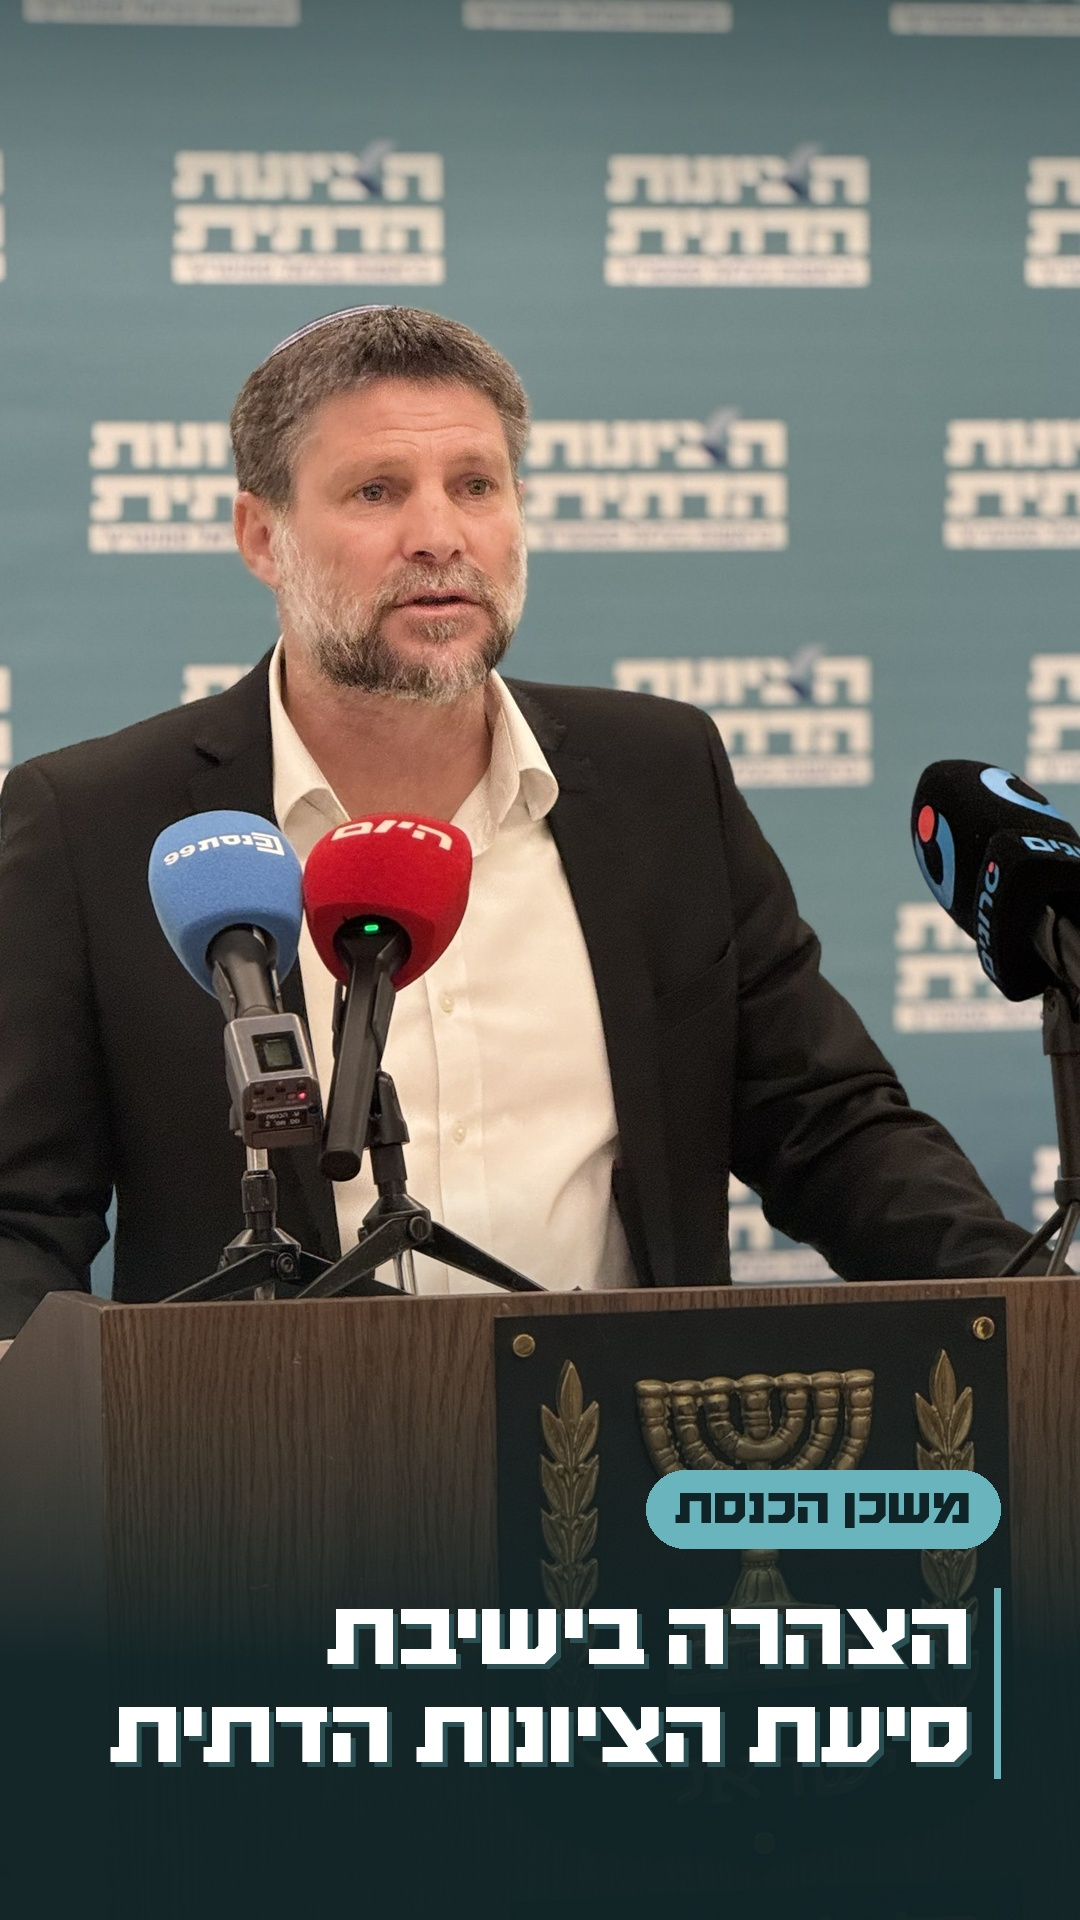
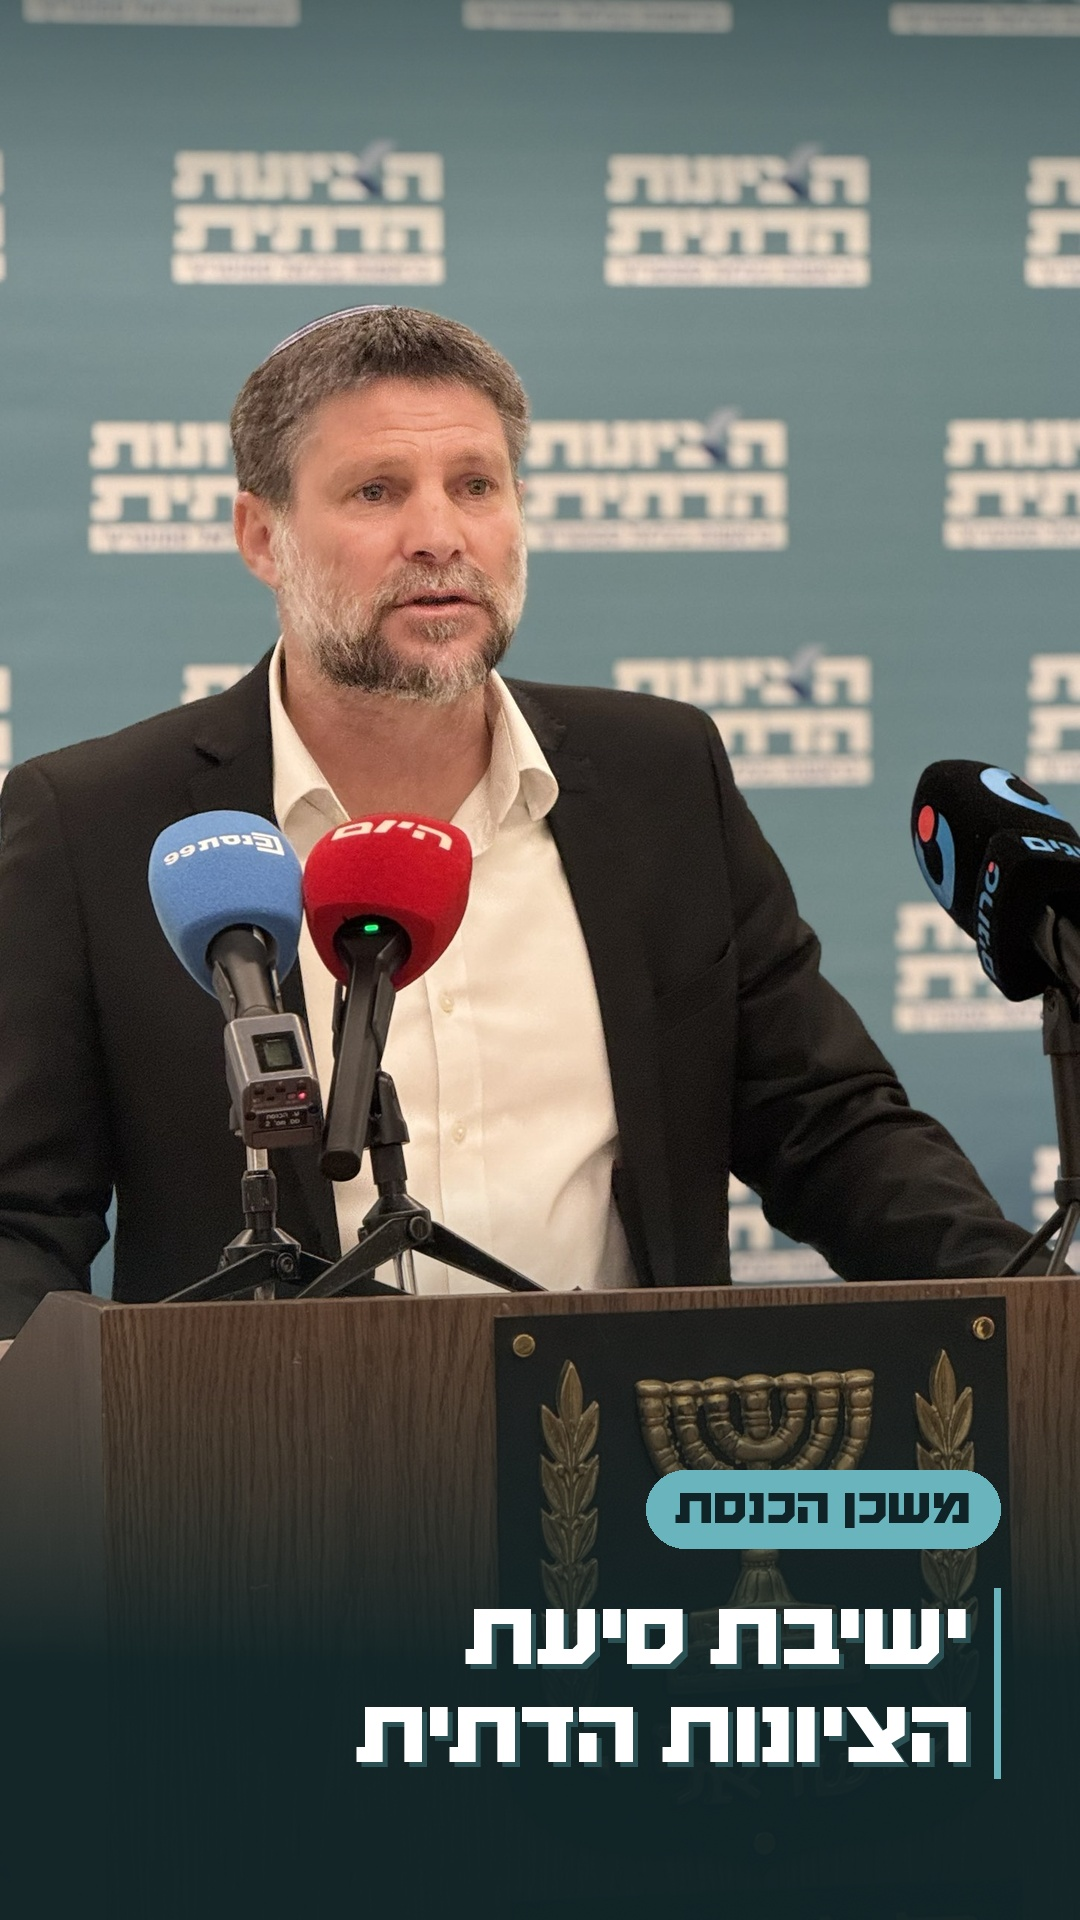
Faction story: title text fix
Claude-Session: https://claude.ai/code/session_01RS3QK6pAd3YhyAuXZSJjH1

Changed region(s): [[0.0917, 0.8125, 0.9167, 0.9375]]

diff --git a/content-kit/hatzionut-hadatit/2026-11-story-faction-statement/make.py b/content-kit/hatzionut-hadatit/2026-11-story-faction-statement/make.py
@@ -17,7 +17,7 @@ R = W - 80; y = 1470
 pill = 'משכן הכנסת'; pf = F(50); tw = d.textlength(pill, font=pf, direction='rtl')
 d.rounded_rectangle((R - tw - 56, y, R, y + 78), 39, fill=LT); d.text((R - 28, y + 13), pill, font=pf, fill=NIGHT, anchor='ra', direction='rtl')
 y += 112; d.rectangle((R - 6, y + 6, R, y + 196), fill=LT)
-for i, l in enumerate(['הצהרה בישיבת', 'סיעת הציונות הדתית']):
+for i, l in enumerate(['ישיבת סיעת', 'הציונות הדתית']):
     d.text((R - 30 + 5, y + 8 + i * 98 + 5), l, font=F(92), fill=DEEP, anchor='ra', direction='rtl')
     d.text((R - 30, y + 8 + i * 98), l, font=F(92), fill=(255, 255, 255), anchor='ra', direction='rtl')
 im.convert('RGB').save(HERE + '/story.jpg', quality=95)
